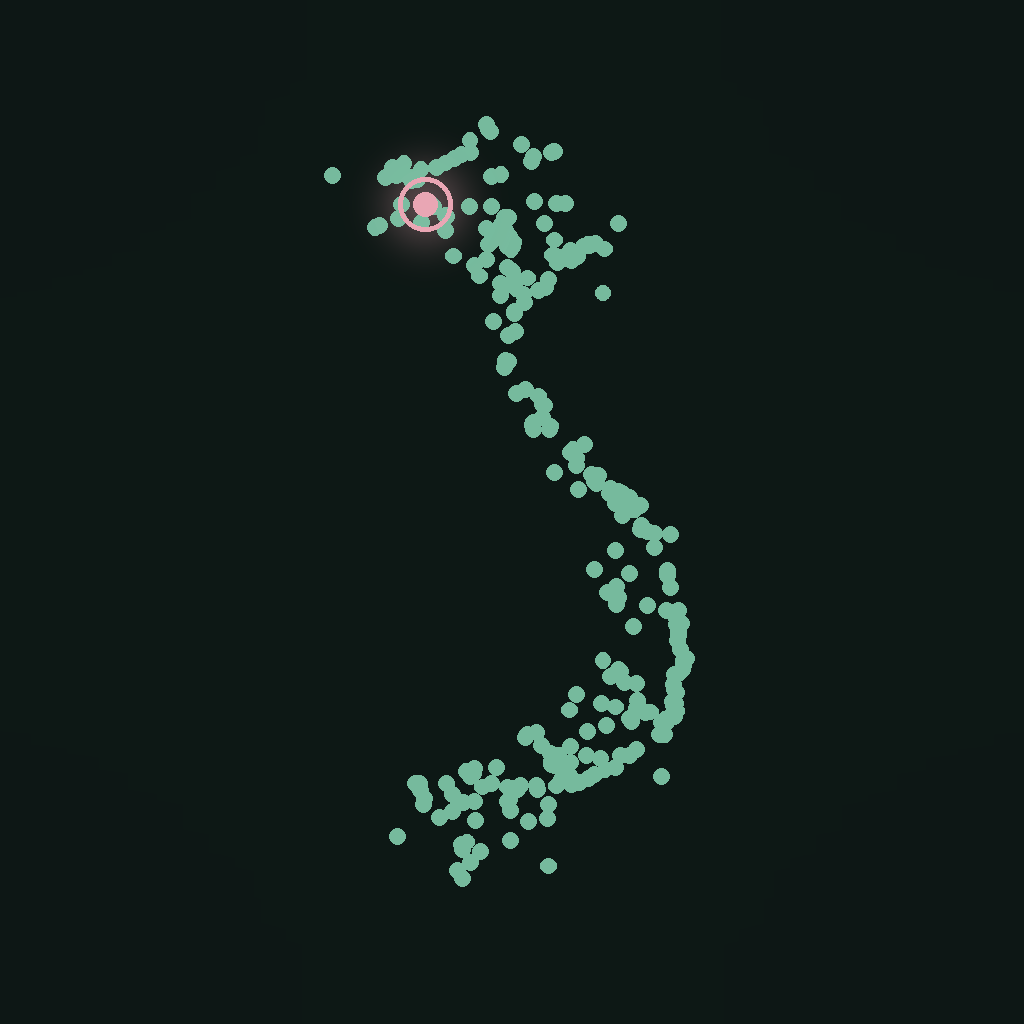
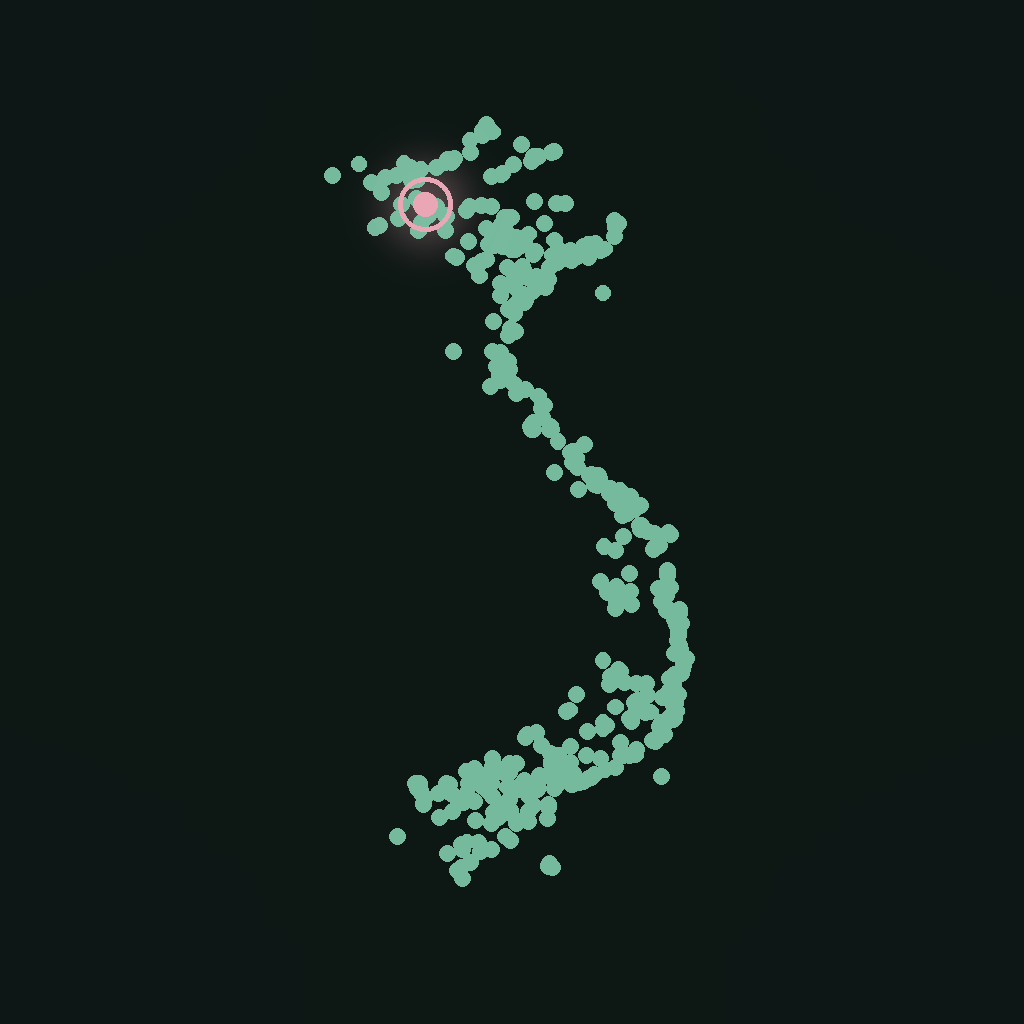
Add files via upload

diff --git a/places.js b/places.js
@@ -301,5 +301,205 @@ window.PLACES = [
 ["Cánh đồng Đồng Tháp Mười","Plain of Reeds paddies","Đồng Tháp","S","rice",10.6,105.8,13],
 ["Cánh đồng Tri Tôn","Tri Tôn paddies and palms","An Giang","S","rice",10.42,104.98,14],
 ["Đồng lúa Sóc Trăng","Sóc Trăng paddies","Cần Thơ","S","rice",9.55,105.95,13],
-["Đồng lúa Vị Thanh","Vị Thanh paddies","Cần Thơ","S","rice",9.78,105.47,13]
+["Đồng lúa Vị Thanh","Vị Thanh paddies","Cần Thơ","S","rice",9.78,105.47,13],
+["Ruộng bậc thang Bản Phùng","Bản Phùng terraces","Tuyên Quang","N","rice",22.7,104.52,14],
+["Thung lũng Sủng Là","Sủng Là valley","Tuyên Quang","N","rice",23.16,105.24,14],
+["Ruộng bậc thang Bát Xát","Bát Xát terraces","Lào Cai","N","rice",22.54,103.76,13],
+["Đồng lúa Hải Hậu","Hải Hậu paddies","Ninh Bình","N","rice",20.15,106.27,13],
+["Đồng lúa Lý Nhân","Lý Nhân paddies","Ninh Bình","N","rice",20.55,106.1,13],
+["Đồng lúa Gia Lộc","Gia Lộc paddies","Hải Phòng","N","rice",20.87,106.29,13],
+["Đồng lúa Vũ Thư","Vũ Thư paddies","Hưng Yên","N","rice",20.43,106.28,13],
+["Đồng lúa Yên Phong","Yên Phong paddies","Bắc Ninh","N","rice",21.2,105.95,13],
+["Đồng lúa Hoằng Hóa","Hoằng Hóa paddies","Thanh Hóa","N","rice",19.85,105.85,13],
+["Đồng lúa Yên Thành","Yên Thành paddies","Nghệ An","N","rice",19,105.45,13],
+["Đồng lúa Can Lộc","Can Lộc paddies","Hà Tĩnh","N","rice",18.45,105.77,13],
+["Đồng lúa Quảng Điền","Quảng Điền paddies","Huế","C","rice",16.55,107.44,13],
+["Đồng lúa Triệu Phong","Triệu Phong paddies","Quảng Trị","C","rice",16.78,107.15,13],
+["Đồng lúa Lệ Thủy","Lệ Thủy paddies","Quảng Trị","C","rice",17.22,106.8,13],
+["Đồng lúa Tư Nghĩa","Tư Nghĩa paddies","Quảng Ngãi","C","rice",15.08,108.77,13],
+["Đồng lúa Phù Mỹ","Phù Mỹ paddies","Gia Lai","C","rice",14.17,109.05,13],
+["Đồng lúa Ninh Hòa","Ninh Hòa paddies","Khánh Hòa","C","rice",12.5,109.1,13],
+["Đồng lúa Ninh Phước","Ninh Phước paddies","Khánh Hòa","C","rice",11.52,108.9,13],
+["Cánh đồng Buôn Trấp","Buôn Trấp paddies","Đắk Lắk","C","rice",12.48,108.03,13],
+["Đồng lúa Châu Phú","Châu Phú paddies","An Giang","S","rice",10.55,105.2,13],
+["Đồng lúa kênh Tà Đảnh","Tà Đảnh canal paddies","An Giang","S","rice",10.4,105.1,13],
+["Đồng lúa Hòn Đất","Hòn Đất paddies","An Giang","S","rice",10.18,104.92,13],
+["Đồng lúa Cờ Đỏ","Cờ Đỏ paddies","Cần Thơ","S","rice",10.1,105.45,13],
+["Đồng lúa Phụng Hiệp","Phụng Hiệp paddies","Cần Thơ","S","rice",9.79,105.75,13],
+["Đồng lúa Tam Nông","Tam Nông paddies","Đồng Tháp","S","rice",10.72,105.45,13],
+["Đồng lúa Tân Hồng","Tân Hồng paddies","Đồng Tháp","S","rice",10.87,105.45,13],
+["Đồng lúa Mộc Hóa","Mộc Hóa paddies","Tây Ninh","S","rice",10.78,105.95,13],
+["Đồng lúa Cai Lậy","Cai Lậy paddies","Đồng Tháp","S","rice",10.43,106.1,13],
+["Đồng lúa Tiểu Cần","Tiểu Cần paddies","Vĩnh Long","S","rice",9.8,106.2,13],
+["Đồng lúa Hồng Dân","Hồng Dân paddies","Cà Mau","S","rice",9.56,105.42,13],
+["Đồng lúa Vĩnh Thạnh","Vĩnh Thạnh paddies","Cần Thơ","S","rice",10.21,105.37,13],
+["Đồng lúa Long Mỹ","Long Mỹ paddies","Cần Thơ","S","rice",9.68,105.57,13],
+["Chùa Thầy","Thầy Pagoda","Hà Nội","N","heritage",21.023,105.645,15],
+["Chùa Tây Phương","Tây Phương Pagoda","Hà Nội","N","heritage",21.043,105.625,15],
+["Làng gốm Bát Tràng","Bát Tràng pottery village","Hà Nội","N","heritage",20.977,105.913,15],
+["Thành cổ Sơn Tây","Sơn Tây Citadel","Hà Nội","N","heritage",21.142,105.505,16],
+["Chùa Dâu","Dâu Pagoda","Bắc Ninh","N","heritage",21.043,106.045,15],
+["Chùa Bút Tháp","Bút Tháp Pagoda","Bắc Ninh","N","heritage",21.088,106.109,15],
+["Đền Đô","Đô Temple","Bắc Ninh","N","heritage",21.117,105.956,15],
+["Phố Hiến","Phố Hiến","Hưng Yên","N","heritage",20.65,106.06,15],
+["Chùa Keo","Keo Pagoda","Hưng Yên","N","heritage",20.36,106.4,16],
+["Đền Trần Nam Định","Trần Temple, Nam Định","Ninh Bình","N","heritage",20.435,106.18,16],
+["Cố đô Hoa Lư","Hoa Lư ancient capital","Ninh Bình","N","heritage",20.285,105.905,15],
+["Di tích Điện Biên Phủ","Điện Biên Phủ battlefield","Điện Biên","N","heritage",21.385,103.02,16],
+["Khu di tích Kim Liên","Kim Liên, Hồ Chí Minh's home village","Nghệ An","N","heritage",18.7,105.53,15],
+["Ngã ba Đồng Lộc","Đồng Lộc Junction","Hà Tĩnh","N","heritage",18.42,105.61,15],
+["Phố cổ Đồng Văn","Đồng Văn old quarter","Tuyên Quang","N","heritage",23.278,105.36,16],
+["Dinh thự họ Vương","Vương family palace","Tuyên Quang","N","heritage",23.24,105.24,15],
+["Lăng Minh Mạng","Minh Mạng Tomb","Huế","C","heritage",16.387,107.571,16],
+["Lăng Gia Long","Gia Long Tomb","Huế","C","heritage",16.35,107.61,15],
+["Đàn Nam Giao","Nam Giao Esplanade","Huế","C","heritage",16.444,107.583,16],
+["Cầu ngói Thanh Toàn","Thanh Toàn tile-roofed bridge","Huế","C","heritage",16.495,107.655,16],
+["Nhà thờ La Vang","Our Lady of La Vang","Quảng Trị","C","heritage",16.705,107.195,16],
+["Khu chứng tích Sơn Mỹ","Sơn Mỹ memorial","Quảng Ngãi","C","heritage",15.18,108.87,15],
+["Tháp Dương Long","Dương Long Towers","Gia Lai","C","heritage",14.04,108.94,16],
+["Tháp Đôi Quy Nhơn","Twin Towers, Quy Nhơn","Gia Lai","C","heritage",13.786,109.212,17],
+["Thành Hoàng Đế","Hoàng Đế Citadel","Gia Lai","C","heritage",13.91,109.04,15],
+["Tháp Nhạn","Nhạn Tower","Đắk Lắk","C","heritage",13.09,109.3,16],
+["Thành cổ Diên Khánh","Diên Khánh Citadel","Khánh Hòa","C","heritage",12.26,109.1,16],
+["Tháp Poshanư","Po Shanu Towers","Lâm Đồng","C","heritage",10.945,108.15,16],
+["Ga Đà Lạt","Đà Lạt railway station","Lâm Đồng","C","heritage",11.942,108.455,17],
+["Nhà thờ Đức Bà Sài Gòn","Saigon Notre-Dame Cathedral","TP. Hồ Chí Minh","S","heritage",10.7798,106.699,17],
+["Bến Nhà Rồng","Nhà Rồng Wharf","TP. Hồ Chí Minh","S","heritage",10.768,106.707,17],
+["Lăng Ông Bà Chiểu","Lê Văn Duyệt Mausoleum","TP. Hồ Chí Minh","S","heritage",10.803,106.699,17],
+["Nhà tù Côn Đảo","Côn Đảo prison","TP. Hồ Chí Minh","S","heritage",8.683,106.607,16],
+["Chùa Vĩnh Tràng","Vĩnh Tràng Pagoda","Đồng Tháp","S","heritage",10.356,106.38,16],
+["Chùa Dơi","Bat Pagoda, Sóc Trăng","Cần Thơ","S","heritage",9.59,105.99,16],
+["Chùa Âng – Ao Bà Om","Âng Pagoda and Bà Om Pond","Vĩnh Long","S","heritage",9.92,106.3,16],
+["Miếu Bà Chúa Xứ","Bà Chúa Xứ Temple","An Giang","S","heritage",10.68,105.08,16],
+["Đỉnh Phu Si Lung","Phu Si Lung peak","Lai Châu","N","mtn",22.61,102.69,12],
+["Đỉnh Chiêu Lầu Thi","Chiêu Lầu Thi peak","Tuyên Quang","N","mtn",22.63,104.6,13],
+["Hẻm Tu Sản","Tu Sản canyon","Tuyên Quang","N","mtn",23.248,105.413,16],
+["Núi Pia Oắc","Pia Oắc mountain","Cao Bằng","N","mtn",22.6,105.88,13],
+["Đèo Mã Phục","Mã Phục Pass","Cao Bằng","N","mtn",22.75,106.4,13],
+["Đỉnh Tà Chì Nhù","Tà Chì Nhù peak","Lào Cai","N","mtn",21.63,104.13,13],
+["Đèo Thung Khe","Thung Khe Pass","Phú Thọ","N","mtn",20.67,105.14,14],
+["Vườn quốc gia Pù Mát","Pù Mát National Park","Nghệ An","N","mtn",19,104.65,12],
+["Vườn quốc gia Vũ Quang","Vũ Quang National Park","Hà Tĩnh","N","mtn",18.3,105.4,12],
+["Vườn quốc gia Xuân Sơn","Xuân Sơn National Park","Phú Thọ","N","mtn",21.13,104.95,12],
+["Hang Sửng Sốt","Sửng Sốt cave island","Quảng Ninh","N","mtn",20.858,107.088,16],
+["Hang Én","Hang Én cave area","Quảng Trị","C","mtn",17.47,106.26,14],
+["Động Thiên Đường","Paradise Cave","Quảng Trị","C","mtn",17.518,106.223,15],
+["Đèo Phượng Hoàng","Phượng Hoàng Pass","Đắk Lắk","C","mtn",12.4,108.63,14],
+["Đèo Cả","Cả Pass","Đắk Lắk","C","mtn",12.87,109.37,14],
+["Núi Đá Bia","Đá Bia rock","Đắk Lắk","C","mtn",12.9,109.39,15],
+["Đèo Lò Xo","Lò Xo Pass","Quảng Ngãi","C","mtn",15.15,107.75,13],
+["Đèo Mang Yang","Mang Yang Pass","Gia Lai","C","mtn",13.98,108.32,13],
+["Núi lửa Hàm Rồng","Hàm Rồng volcano","Gia Lai","C","mtn",13.9,107.99,14],
+["Vườn quốc gia Chư Mom Ray","Chư Mom Ray National Park","Quảng Ngãi","C","mtn",14.45,107.68,12],
+["Vườn quốc gia Kon Ka Kinh","Kon Ka Kinh National Park","Gia Lai","C","mtn",14.25,108.3,12],
+["Vườn quốc gia Bidoup – Núi Bà","Bidoup – Núi Bà National Park","Lâm Đồng","C","mtn",12.15,108.65,12],
+["Núi Hòn Bà","Hòn Bà mountain","Khánh Hòa","C","mtn",12.12,108.96,13],
+["Đèo Prenn","Prenn Pass","Lâm Đồng","C","mtn",11.89,108.47,14],
+["Đèo Bảo Lộc","Bảo Lộc Pass","Lâm Đồng","C","mtn",11.48,107.73,14],
+["Núi Dinh","Dinh Mountain","TP. Hồ Chí Minh","S","mtn",10.58,107.12,13],
+["Núi Minh Đạm","Minh Đạm Mountain","TP. Hồ Chí Minh","S","mtn",10.42,107.33,14],
+["Núi Cô Tô","Cô Tô Mountain","An Giang","S","mtn",10.38,104.95,14],
+["Núi Đá Dựng","Đá Dựng hill","An Giang","S","mtn",10.35,104.56,15],
+["Đảo Thanh Lân","Thanh Lân Island","Quảng Ninh","N","sea",20.95,107.68,13],
+["Bãi Minh Châu","Minh Châu beach","Quảng Ninh","N","sea",21.02,107.6,14],
+["Đảo Ngọc Vừng","Ngọc Vừng Island","Quảng Ninh","N","sea",20.81,107.43,14],
+["Đảo Trần","Trần Island","Quảng Ninh","N","sea",21.22,107.96,14],
+["Đảo Vĩnh Thực","Vĩnh Thực Island","Quảng Ninh","N","sea",21.4,107.98,13],
+["Bãi biển Hải Tiến","Hải Tiến Beach","Thanh Hóa","N","sea",19.93,105.94,14],
+["Bãi biển Hải Hòa","Hải Hòa Beach","Thanh Hóa","N","sea",19.44,105.81,14],
+["Biển Diễn Châu","Diễn Châu coast","Nghệ An","N","sea",18.98,105.62,13],
+["Biển Xuân Thành","Xuân Thành Beach","Hà Tĩnh","N","sea",18.64,105.8,14],
+["Bán đảo Bảo Ninh","Bảo Ninh peninsula","Quảng Trị","C","sea",17.46,106.66,14],
+["Vũng Chùa – Đảo Yến","Vũng Chùa and Yến Island","Quảng Trị","C","sea",17.87,106.46,14],
+["Biển Cửa Tùng","Cửa Tùng Beach","Quảng Trị","C","sea",17.02,107.11,14],
+["Biển Lăng Cô","Lăng Cô Beach","Huế","C","sea",16.26,108.08,14],
+["Bãi biển An Bàng","An Bàng Beach","Đà Nẵng","C","sea",15.915,108.34,15],
+["Bãi Bắc Sơn Trà","Bãi Bắc, Sơn Trà","Đà Nẵng","C","sea",16.14,108.29,15],
+["Biển Mỹ Khê Quảng Ngãi","Mỹ Khê Beach, Quảng Ngãi","Quảng Ngãi","C","sea",15.17,108.9,14],
+["Đảo Bé Lý Sơn","Lý Sơn Small Island","Quảng Ngãi","C","sea",15.43,109.09,15],
+["Bãi Xép","Bãi Xép","Gia Lai","C","sea",13.69,109.21,15],
+["Eo Gió","Eo Gió","Gia Lai","C","sea",13.89,109.31,16],
+["Hòn Khô","Hòn Khô","Gia Lai","C","sea",13.81,109.3,15],
+["Hòn Yến","Hòn Yến","Đắk Lắk","C","sea",13.16,109.32,15],
+["Bãi Dài Cam Ranh","Bãi Dài, Cam Ranh","Khánh Hòa","C","sea",12.08,109.2,14],
+["Đảo Hòn Tằm","Hòn Tằm Island","Khánh Hòa","C","sea",12.17,109.28,14],
+["Đảo Điệp Sơn","Điệp Sơn Island","Khánh Hòa","C","sea",12.6,109.35,14],
+["Đảo Bình Hưng","Bình Hưng Island","Khánh Hòa","C","sea",11.69,109.21,14],
+["Hang Rái","Hang Rái coast","Khánh Hòa","C","sea",11.67,109.18,15],
+["Cù Lao Câu","Cù Lao Câu islet","Lâm Đồng","C","sea",11.22,108.82,15],
+["Hòn Rơm","Hòn Rơm","Lâm Đồng","C","sea",10.95,108.4,15],
+["Bãi biển Cổ Thạch","Cổ Thạch Beach","Lâm Đồng","C","sea",11.24,108.75,15],
+["Bãi Sau Vũng Tàu","Back Beach, Vũng Tàu","TP. Hồ Chí Minh","S","sea",10.34,107.1,15],
+["Hòn Bảy Cạnh","Bảy Cạnh Island","TP. Hồ Chí Minh","S","sea",8.66,106.68,14],
+["Bãi Đầm Trầu","Đầm Trầu Beach, Côn Đảo","TP. Hồ Chí Minh","S","sea",8.735,106.625,15],
+["Bãi Ông Lang","Ông Lang Beach, Phú Quốc","An Giang","S","sea",10.27,103.9,15],
+["Hòn Thơm","Hòn Thơm","An Giang","S","sea",9.96,104.02,15],
+["Quần đảo Bà Lụa","Bà Lụa islands","An Giang","S","sea",10.18,104.55,13],
+["Quần đảo Hải Tặc","Pirate Islands","An Giang","S","sea",10.17,104.33,14],
+["Biển Thạnh Phú","Thạnh Phú coast","Vĩnh Long","S","sea",9.88,106.6,13],
+["Biển Tân Thành","Tân Thành coast","Đồng Tháp","S","sea",10.26,106.72,14],
+["Gành Hào","Gành Hào","Cà Mau","S","sea",9.03,105.42,13],
+["Đảo Hòn Chuối","Hòn Chuối Island","Cà Mau","S","sea",8.95,104.52,15],
+["Đảo Trường Sa Đông","Trường Sa Đông Island","Khánh Hòa","C","sea",8.93,112.35,15],
+["Đảo Sinh Tồn Đông","Sinh Tồn Đông Island","Khánh Hòa","C","sea",9.91,114.56,15],
+["Hồ thủy điện Lai Châu","Lai Châu reservoir","Lai Châu","N","water",22.25,102.95,12],
+["Sông Đà ở Mường Lay","Đà River at Mường Lay","Điện Biên","N","water",22.06,103.15,13],
+["Thác Dải Yếm","Dải Yếm Falls","Sơn La","N","water",20.82,104.7,15],
+["Sông Nho Quế","Nho Quế River","Tuyên Quang","N","water",23.22,105.45,14],
+["Sông Năng","Năng River","Thái Nguyên","N","water",22.43,105.66,14],
+["Thung Nai","Thung Nai, Hòa Bình reservoir","Phú Thọ","N","water",20.74,105.22,13],
+["Hồ Đồng Mô","Đồng Mô Lake","Hà Nội","N","water",21.05,105.48,13],
+["Sông Đuống","Đuống River","Bắc Ninh","N","water",21.09,106,13],
+["Cửa sông Thái Bình","Thái Bình River mouth","Hải Phòng","N","water",20.62,106.63,13],
+["Cửa sông Đáy","Đáy River mouth","Ninh Bình","N","water",19.99,106.12,13],
+["Sông Lam ở Vinh","Lam River at Vinh","Nghệ An","N","water",18.66,105.73,13],
+["Ngã ba Tuần","Tuần confluence, Perfume River","Huế","C","water",16.38,107.55,14],
+["Sông Thu Bồn","Thu Bồn River","Đà Nẵng","C","water",15.87,108.15,13],
+["Hồ Sông Tranh","Sông Tranh reservoir","Đà Nẵng","C","water",15.35,108.15,12],
+["Hồ Định Bình","Định Bình Lake","Gia Lai","C","water",14.3,108.87,13],
+["Thác Bảy Nhánh","Bảy Nhánh Falls","Đắk Lắk","C","water",12.37,107.87,14],
+["Hồ Đankia – Suối Vàng","Đankia Lake","Lâm Đồng","C","water",12.01,108.37,13],
+["Thác Dambri","Dambri Falls","Lâm Đồng","C","water",11.61,107.73,15],
+["Thác Datanla","Datanla Falls","Lâm Đồng","C","water",11.902,108.449,16],
+["Hồ Sông Quao","Sông Quao Lake","Lâm Đồng","C","water",11.2,108.1,13],
+["Ngã ba Vàm Cỏ","Vàm Cỏ confluence","Tây Ninh","S","water",10.52,106.62,13],
+["Rạch Gầm – Xoài Mút","Rạch Gầm – Xoài Mút","Đồng Tháp","S","water",10.35,106.25,13],
+["Vàm Nao","Vàm Nao channel","An Giang","S","water",10.58,105.36,13],
+["Kênh Xà No","Xà No Canal","Cần Thơ","S","water",9.87,105.6,13],
+["Cù lao Dài","Cù Lao Dài","Vĩnh Long","S","water",10.12,106.18,13],
+["Rừng ngập mặn Đất Mũi","Đất Mũi mangroves","Cà Mau","S","water",8.67,104.8,13],
+["Rừng tràm Gáo Giồng","Gáo Giồng cajuput forest","Đồng Tháp","S","water",10.6,105.67,13],
+["Khu bảo tồn Láng Sen","Láng Sen wetland","Tây Ninh","S","water",10.77,105.79,13],
+["Cửa Soài Rạp","Soài Rạp estuary","TP. Hồ Chí Minh","S","water",10.4,106.78,12],
+["Thành phố Sơn La","Sơn La city","Sơn La","N","city",21.327,103.914,14],
+["Thị xã Sa Pa","Sa Pa town","Lào Cai","N","city",22.338,103.844,15],
+["Thành phố Yên Bái","Yên Bái city","Lào Cai","N","city",21.72,104.91,14],
+["Thành phố Tuyên Quang","Tuyên Quang city","Tuyên Quang","N","city",21.82,105.22,14],
+["Thành phố Thái Nguyên","Thái Nguyên city","Thái Nguyên","N","city",21.594,105.848,14],
+["Thành phố Bắc Giang","Bắc Giang city","Bắc Ninh","N","city",21.27,106.19,14],
+["Thành phố Bắc Ninh","Bắc Ninh city","Bắc Ninh","N","city",21.186,106.076,14],
+["Thành phố Hải Dương","Hải Dương city","Hải Phòng","N","city",20.94,106.33,14],
+["Thành phố Móng Cái","Móng Cái","Quảng Ninh","N","city",21.525,107.965,14],
+["Thành phố Thanh Hóa","Thanh Hóa city","Thanh Hóa","N","city",19.807,105.777,14],
+["Thành phố Hà Tĩnh","Hà Tĩnh city","Hà Tĩnh","N","city",18.34,105.9,14],
+["Thành phố Đông Hà","Đông Hà","Quảng Trị","C","city",16.816,107.1,14],
+["Thành phố Tam Kỳ","Tam Kỳ","Đà Nẵng","C","city",15.57,108.48,14],
+["Thành phố Nha Trang","Nha Trang city","Khánh Hòa","C","city",12.245,109.195,14],
+["Thành phố Phan Rang","Phan Rang","Khánh Hòa","C","city",11.565,108.99,14],
+["Khu công nghệ cao Thủ Đức","Thủ Đức high-tech park","TP. Hồ Chí Minh","S","city",10.85,106.8,14],
+["Khu công nghiệp VSIP","VSIP industrial park","TP. Hồ Chí Minh","S","city",10.92,106.71,14],
+["Thành phố Mỹ Tho","Mỹ Tho","Đồng Tháp","S","city",10.36,106.36,14],
+["Thành phố Cà Mau","Cà Mau city","Cà Mau","S","city",9.177,105.15,14],
+["Thành phố Bạc Liêu","Bạc Liêu city","Cà Mau","S","city",9.285,105.725,14],
+["Thành phố Sóc Trăng","Sóc Trăng city","Cần Thơ","S","city",9.603,105.98,14],
+["Thành phố Tân An","Tân An","Tây Ninh","S","city",10.535,106.41,14],
+["Cầu Rạch Miễu","Rạch Miễu Bridge","Vĩnh Long","S","city",10.315,106.35,15],
+["Sân bay Phú Quốc","Phú Quốc Airport","An Giang","S","city",10.17,103.99,14],
+["Cầu Bạch Đằng","Bạch Đằng Bridge","Quảng Ninh","N","city",20.95,106.83,13],
+["Đồng lúa Đức Thọ","Đức Thọ paddies","Hà Tĩnh","N","rice",18.53,105.6,13],
+["Ruộng bậc thang Nậm Khắt","Nậm Khắt terraces","Lào Cai","N","rice",21.79,104.18,14],
+["Đồng lúa Duy Xuyên","Duy Xuyên paddies","Đà Nẵng","C","rice",15.8,108.24,13],
+["Lăng Thiệu Trị","Thiệu Trị Tomb","Huế","C","heritage",16.425,107.548,16],
+["Núi Bà Rá","Bà Rá Mountain","Đồng Nai","S","mtn",11.83,106.98,13],
+["Biển Hồ Cốc","Hồ Cốc Beach","TP. Hồ Chí Minh","S","sea",10.5,107.49,15]
 ];

diff --git a/index.html b/index.html
@@ -158,7 +158,11 @@ body.clean #unhide{display:grid}
 .grid{flex:1;overflow:auto;display:grid;grid-template-columns:repeat(auto-fill,minmax(150px,1fr));gap:12px;align-content:start;padding-bottom:8px;min-height:0}
 .card{border:0;padding:0;background:transparent;text-align:left;cursor:pointer;display:flex;flex-direction:column;gap:6px;min-width:0}
 .th{background:#1b2925 center/cover no-repeat}
-.card .th{aspect-ratio:4/3;border-radius:8px;max-width:100%}
+.card .th{aspect-ratio:4/3;border-radius:8px;max-width:100%;width:100%;display:block;object-fit:cover}
+.gcats{display:flex;gap:6px;overflow-x:auto;scrollbar-width:none;margin:-4px 0 14px;padding:2px 0;flex:none}
+.gcats::-webkit-scrollbar{display:none}
+.gcats .chip{flex:none;display:flex;gap:6px;align-items:baseline;white-space:nowrap}
+.gcats .chip small{font:400 10px/1 var(--mono);opacity:.7;font-variant-numeric:tabular-nums}
 .card:hover .th{outline:2px solid var(--lotus);outline-offset:2px}
 .card strong{font:500 13px/1.25 var(--body);overflow-wrap:anywhere}
 .card small{font:400 11px var(--mono);color:var(--muted)}
@@ -276,7 +280,7 @@ body.clean #unhide{display:grid}
   </div>
   <div id="inset"><canvas id="insetCv"></canvas><div id="insetLabel"></div></div>
 </div>
-<div id="attrib">Imagery © Esri, Maxar, Earthstar Geographics · v0.11</div>
+<div id="attrib">Imagery © Esri, Maxar, Earthstar Geographics · v0.12</div>
 
 <div class="panel" id="searchPanel" hidden>
   <div class="sheet" role="dialog" aria-modal="true" aria-labelledby="searchTitle">
@@ -305,6 +309,7 @@ body.clean #unhide{display:grid}
   <div class="sheet" role="dialog" aria-modal="true" aria-labelledby="galTitle">
     <header><h2 id="galTitle" data-t="gal"></h2><button class="ic" data-close><svg viewBox="0 0 24 24"><path d="M6 6l12 12M18 6L6 18"/></svg></button></header>
     <div class="tabs"><button class="chip" id="tabFav" aria-pressed="true"></button><button class="chip" id="tabAll" aria-pressed="false"></button></div>
+    <div class="gcats" id="galCats" role="toolbar"></div>
     <div class="grid" id="galGrid"></div>
   </div>
 </div>
@@ -327,7 +332,7 @@ body.clean #unhide{display:grid}
 "use strict";
 const TILE = (z,y,x) => `https://server.arcgisonline.com/ArcGIS/rest/services/World_Imagery/MapServer/tile/${z}/${y}/${x}`;
 const OSM = "https://nominatim.openstreetmap.org";
-const APP_VERSION = "0.11";
+const APP_VERSION = "0.12";
 const MAXZ = 18;            // deepest imagery level requested; closer views are scaled up
 const LEVELS = 3;           // zoom steps toward the place: 1×, 2×, 4×
 
@@ -748,7 +753,7 @@ async function drawOverlayAt(c, vW, vH, scale){
 }
 
 // ── Gallery
-let galTab = "fav";
+let galTab = "fav", galTheme = "all";
 function thumb(p){
   const z = clamp(Math.round(p.z)-1, 3, MAXZ), n = Math.pow(2,z);
   return TILE(z, Math.floor(my(p.lat)*n), Math.floor(mx(p.lon)*n));
@@ -757,18 +762,35 @@ function renderGallery(){
   const t=T[lang];
   $("tabFav").textContent = `${t.favs} (${favs.size})`; $("tabAll").textContent = `${t.all} (${P.length})`;
   $("tabFav").setAttribute("aria-pressed", galTab==="fav"); $("tabAll").setAttribute("aria-pressed", galTab==="all");
-  const list = galTab==="fav" ? [...favs].map(placeById).filter(Boolean) : P;
+  // Places in this tab, north to south
+  const base = (galTab==="fav" ? [...favs].map(placeById).filter(Boolean) : P.slice()).sort((a,b)=>b.lat-a.lat);
+  // Category chips with counts for this tab
+  const cats = $("galCats"); cats.innerHTML = "";
+  const opts = [["all", t.any], ...Object.entries(t.THS)];
+  if(!opts.some(([v])=>v===galTheme) || (galTheme!=="all" && !base.some(p=>p.th===galTheme))) galTheme = "all";
+  for(const [v,label] of opts){
+    const n = v==="all" ? base.length : base.filter(p=>p.th===v).length;
+    if(v!=="all" && !n) continue;
+    const c = document.createElement("button"); c.className = "chip"; c.type = "button";
+    c.setAttribute("aria-pressed", galTheme===v); c.title = v==="all" ? t.any : t.TH[v];
+    c.innerHTML = `<span></span><small>${n}</small>`; c.querySelector("span").textContent = label;
+    c.onclick = () => { galTheme = v; renderGallery(); $("galGrid").scrollTop = 0; };
+    cats.appendChild(c);
+  }
+  const list = galTheme==="all" ? base : base.filter(p=>p.th===galTheme);
   const grid = $("galGrid"); grid.innerHTML = "";
   if(!list.length){ grid.innerHTML = `<p class="empty">${t.empty}</p>`; return; }
+  const frag = document.createDocumentFragment();
   for(const p of list){
-    const b=document.createElement("button"); b.className="card";
-    b.innerHTML = `<div class="th"></div><strong></strong><small></small>`;
-    b.querySelector(".th").style.backgroundImage = `url('${thumb(p)}')`;
-    b.querySelector("strong").textContent = nameOf(p);
-    b.querySelector("small").textContent = p.prov;
+    const b=document.createElement("button"); b.className="card"; b.type="button";
+    const img = document.createElement("img"); img.className="th"; img.loading="lazy"; img.decoding="async"; img.alt=""; img.src = thumb(p);
+    const st = document.createElement("strong"); st.textContent = nameOf(p);
+    const sm = document.createElement("small"); sm.textContent = p.prov;
+    b.append(img, st, sm);
     b.onclick = () => { closePanels(); show(p); };
-    grid.appendChild(b);
+    frag.appendChild(b);
   }
+  grid.appendChild(frag);
 }
 
 // ── Theme chips
@@ -920,7 +942,7 @@ $("q").addEventListener("input", e => { const v=e.target.value; if(!parseLink(v)
 const PANELS = ["galPanel","filtPanel","searchPanel","savePanel"];
 function openPanel(id){
   closePanels(true); $(id).hidden=false;
-  if(id==="galPanel") renderGallery();
+  if(id==="galPanel"){ if(!favs.size) galTab = "all"; renderGallery(); }
   else if(id==="filtPanel") renderFilters();
   else if(id==="savePanel"){ $("saveMsg").textContent=""; $("saveMsg").className="msg"; $("saveGo").hidden=true; renderSizes(); }
   else { $("q").value=""; $("results").innerHTML=""; setTimeout(()=>$("q").focus(), 50); }
@@ -951,7 +973,7 @@ $("prevBtn").onclick=prev; $("prevEdge").onclick=prev;
 $("favBtn").onclick=toggleFav; $("dlBtn").onclick=()=>openPanel("savePanel");
 $("searchBtn").onclick=()=>openPanel("searchPanel");
 $("galBtn").onclick=()=>openPanel("galPanel"); $("filtBtn").onclick=()=>openPanel("filtPanel");
-$("tabFav").onclick=()=>{galTab="fav";renderGallery()}; $("tabAll").onclick=()=>{galTab="all";renderGallery()};
+$("tabFav").onclick=()=>{galTab="fav";galTheme="all";renderGallery()}; $("tabAll").onclick=()=>{galTab="all";galTheme="all";renderGallery()};
 document.querySelectorAll("#zoom button[data-level]").forEach(b=>b.onclick=()=>setLevel(+b.dataset.level));
 $("zc").onclick = recenter;
 const toggleClean=()=>document.body.classList.toggle("clean");

diff --git a/sw.js b/sw.js
@@ -1,6 +1,6 @@
 // Vicarus: offline support.
 // App files are cached on install; satellite tiles and fonts are cached as you view them.
-const VERSION = "v0.11";
+const VERSION = "v0.12";
 const APP = `app-${VERSION}`, TILES = "tiles", FONTS = "fonts";
 const MAX_TILES = 1500;
 const APP_FILES = ["./", "index.html", "places.js", "manifest.webmanifest",

diff --git a/README.md b/README.md
@@ -2,7 +2,7 @@
 
 *Việt Nam từ trên cao · Vietnam from above*
 
-A new satellite view of Vietnam every time you open it: 300 hand-picked places, from the Hà Giang passes to Cà Mau Cape, Hoàng Sa and Trường Sa.
+A new satellite view of Vietnam every time you open it: 500 hand-picked places, from the Hà Giang passes to Cà Mau Cape, Hoàng Sa and Trường Sa.
 
 **Install on iPhone:** open the site in Safari → Share → *Add to Home Screen*.
 
